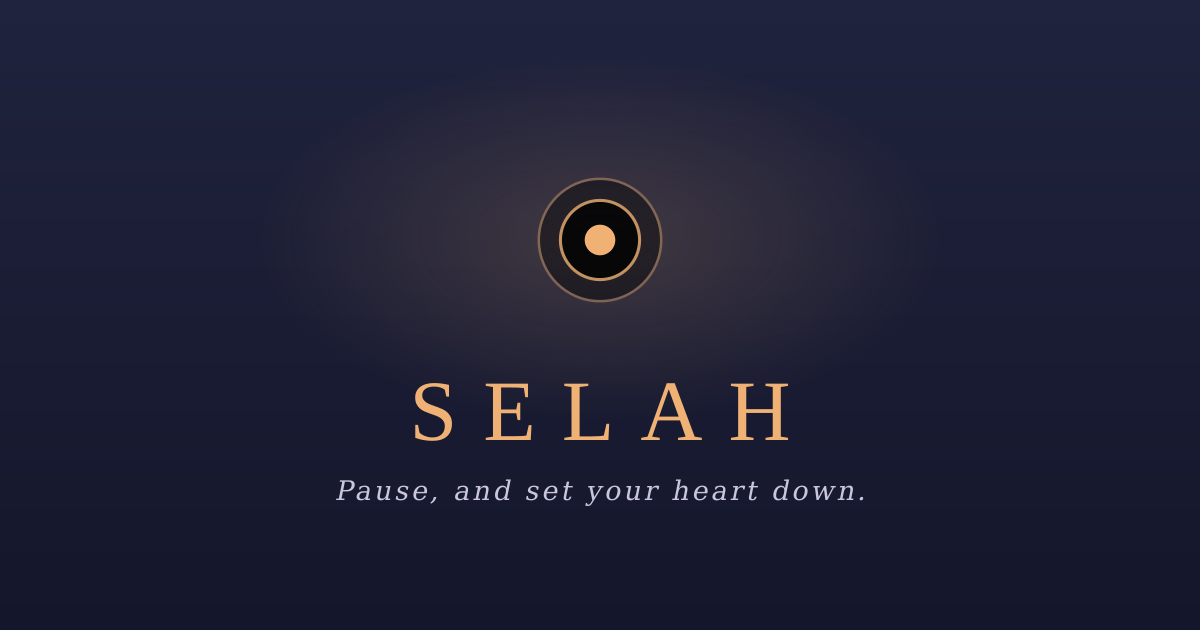
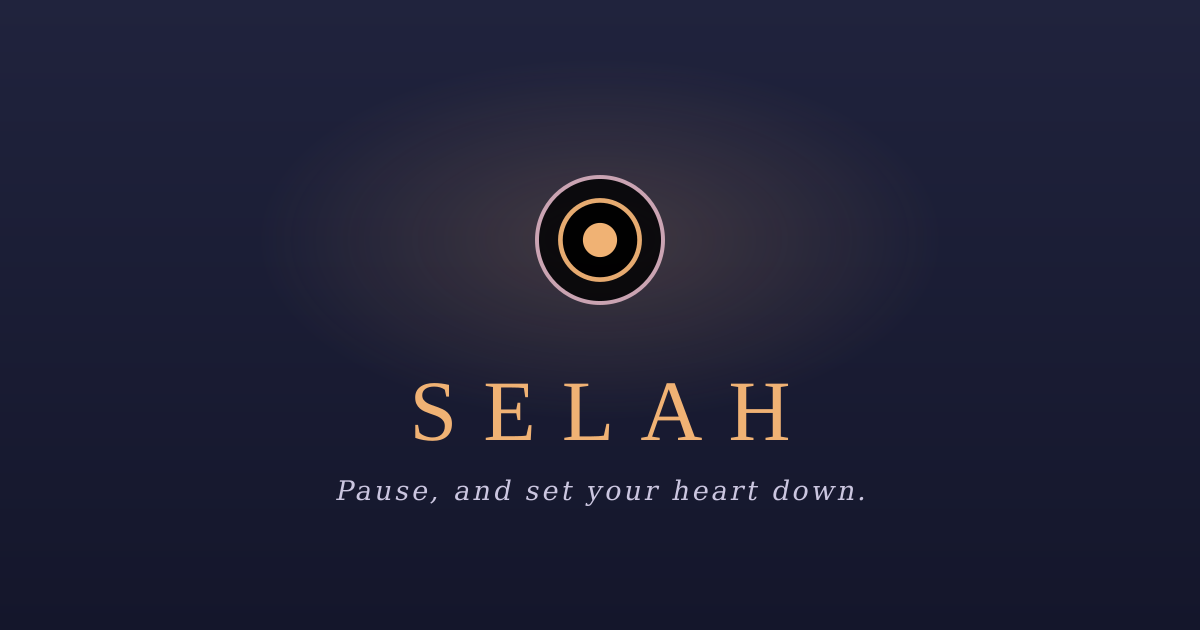
로즈핑크를 포인트로: 투톤 심볼 + 강조
- 심볼을 로즈 헤일로(바깥) + 앰버 코어(안쪽) 투톤으로, 링을 굵게 해
  작은 헤더 크기에서도 형태가 살도록
- 랜딩: 이중 오라(앰버+로즈), 인용부호 로즈 포인트, 심볼 컨테이너 정사각 정렬
- 배경 오로라 강조 글로우를 로즈로
- 아이콘/og 재생성(투톤), SW 캐시 v9

Changed region(s): [[0.4317, 0.2714, 0.555, 0.4825]]

diff --git a/닿다-app/src/app/page.tsx b/닿다-app/src/app/page.tsx
@@ -19,12 +19,17 @@ export default function HomePage() {
 
       <div className="flex w-full max-w-md flex-col items-center">
         {/* 셀라 heart symbol with a soft breathing aura */}
-        <div className="relative mb-6 flex h-32 w-44 items-center justify-center animate-fade-in">
+        <div className="relative mb-6 flex h-32 w-32 items-center justify-center animate-fade-in">
+          {/* 앰버 온기 + 로즈 포인트가 함께 숨 쉬는 이중 오라 */}
           <span
             className="absolute left-1/2 top-1/2 h-40 w-40 -translate-x-1/2 -translate-y-1/2 animate-breathe rounded-full bg-selah-gold/10 blur-2xl"
             aria-hidden
           />
-          <SelahMark className="relative h-32 w-32 animate-breathe text-selah-gold drop-shadow-[0_0_26px_rgba(240,178,116,0.42)]" />
+          <span
+            className="absolute left-1/2 top-1/2 h-28 w-28 -translate-x-1/2 -translate-y-1/2 animate-breathe rounded-full bg-selah-rose/15 blur-2xl"
+            aria-hidden
+          />
+          <SelahMark className="relative h-32 w-32 animate-breathe drop-shadow-[0_0_26px_rgba(240,178,116,0.42)]" />
         </div>
 
         <h1
@@ -53,7 +58,7 @@ export default function HomePage() {
         >
           <span
             aria-hidden
-            className="absolute left-4 top-3 font-serif text-5xl leading-none text-selah-gold/40"
+            className="absolute left-4 top-3 font-serif text-5xl leading-none text-selah-rose/60"
           >
             &ldquo;
           </span>

diff --git a/닿다-app/src/components/selah-mark.tsx b/닿다-app/src/components/selah-mark.tsx
@@ -17,9 +17,10 @@ export function SelahMark({ className }: { className?: string }) {
       aria-label="셀라"
       className={className}
     >
-      <circle cx="50" cy="50" r="34" stroke="currentColor" strokeWidth="1.5" opacity="0.38" />
-      <circle cx="50" cy="50" r="22" stroke="currentColor" strokeWidth="1.8" opacity="0.75" />
-      <circle cx="50" cy="50" r="8.5" fill="currentColor" />
+      {/* 로즈 헤일로(포인트) — 바깥, 앰버 코어 — 안쪽. 굵게 그려 작은 크기에서도 형태가 산다. */}
+      <circle cx="50" cy="50" r="35" stroke="#efc0cf" strokeWidth="2.4" opacity="0.75" />
+      <circle cx="50" cy="50" r="22" stroke="#f0b274" strokeWidth="2.8" opacity="0.95" />
+      <circle cx="50" cy="50" r="9.5" fill="#f0b274" />
     </svg>
   );
 }

diff --git a/닿다-app/src/components/splash.tsx b/닿다-app/src/components/splash.tsx
@@ -65,9 +65,9 @@ export function Splash() {
             animation: "selahSplashBreathe 2.4s ease-in-out infinite",
           }}
         >
-          <circle cx="50" cy="50" r="34" stroke="#f0b274" strokeWidth="1.5" opacity="0.38" />
-          <circle cx="50" cy="50" r="22" stroke="#f0b274" strokeWidth="1.8" opacity="0.75" />
-          <circle cx="50" cy="50" r="8.5" fill="#f0b274" />
+          <circle cx="50" cy="50" r="35" stroke="#efc0cf" strokeWidth="2.4" opacity="0.75" />
+          <circle cx="50" cy="50" r="22" stroke="#f0b274" strokeWidth="2.8" opacity="0.95" />
+          <circle cx="50" cy="50" r="9.5" fill="#f0b274" />
         </svg>
       </div>
 

diff --git a/닿다-app/public/sw.js b/닿다-app/public/sw.js
@@ -12,7 +12,7 @@
  *   - Static assets (JS/CSS bundles)     → stale-while-revalidate.
  *   - API / auth / Supabase              → bypass entirely.
  */
-const CACHE = "selah-shell-v8";
+const CACHE = "selah-shell-v9";
 
 const PRECACHE = [
   "/",

diff --git a/닿다-app/src/app/globals.css b/닿다-app/src/app/globals.css
@@ -66,7 +66,7 @@
       ),
       radial-gradient(
         ellipse 70% 50% at 12% 8%,
-        rgba(185, 196, 238, 0.10),
+        rgba(239, 192, 207, 0.12),
         transparent 60%
       ),
       radial-gradient(
